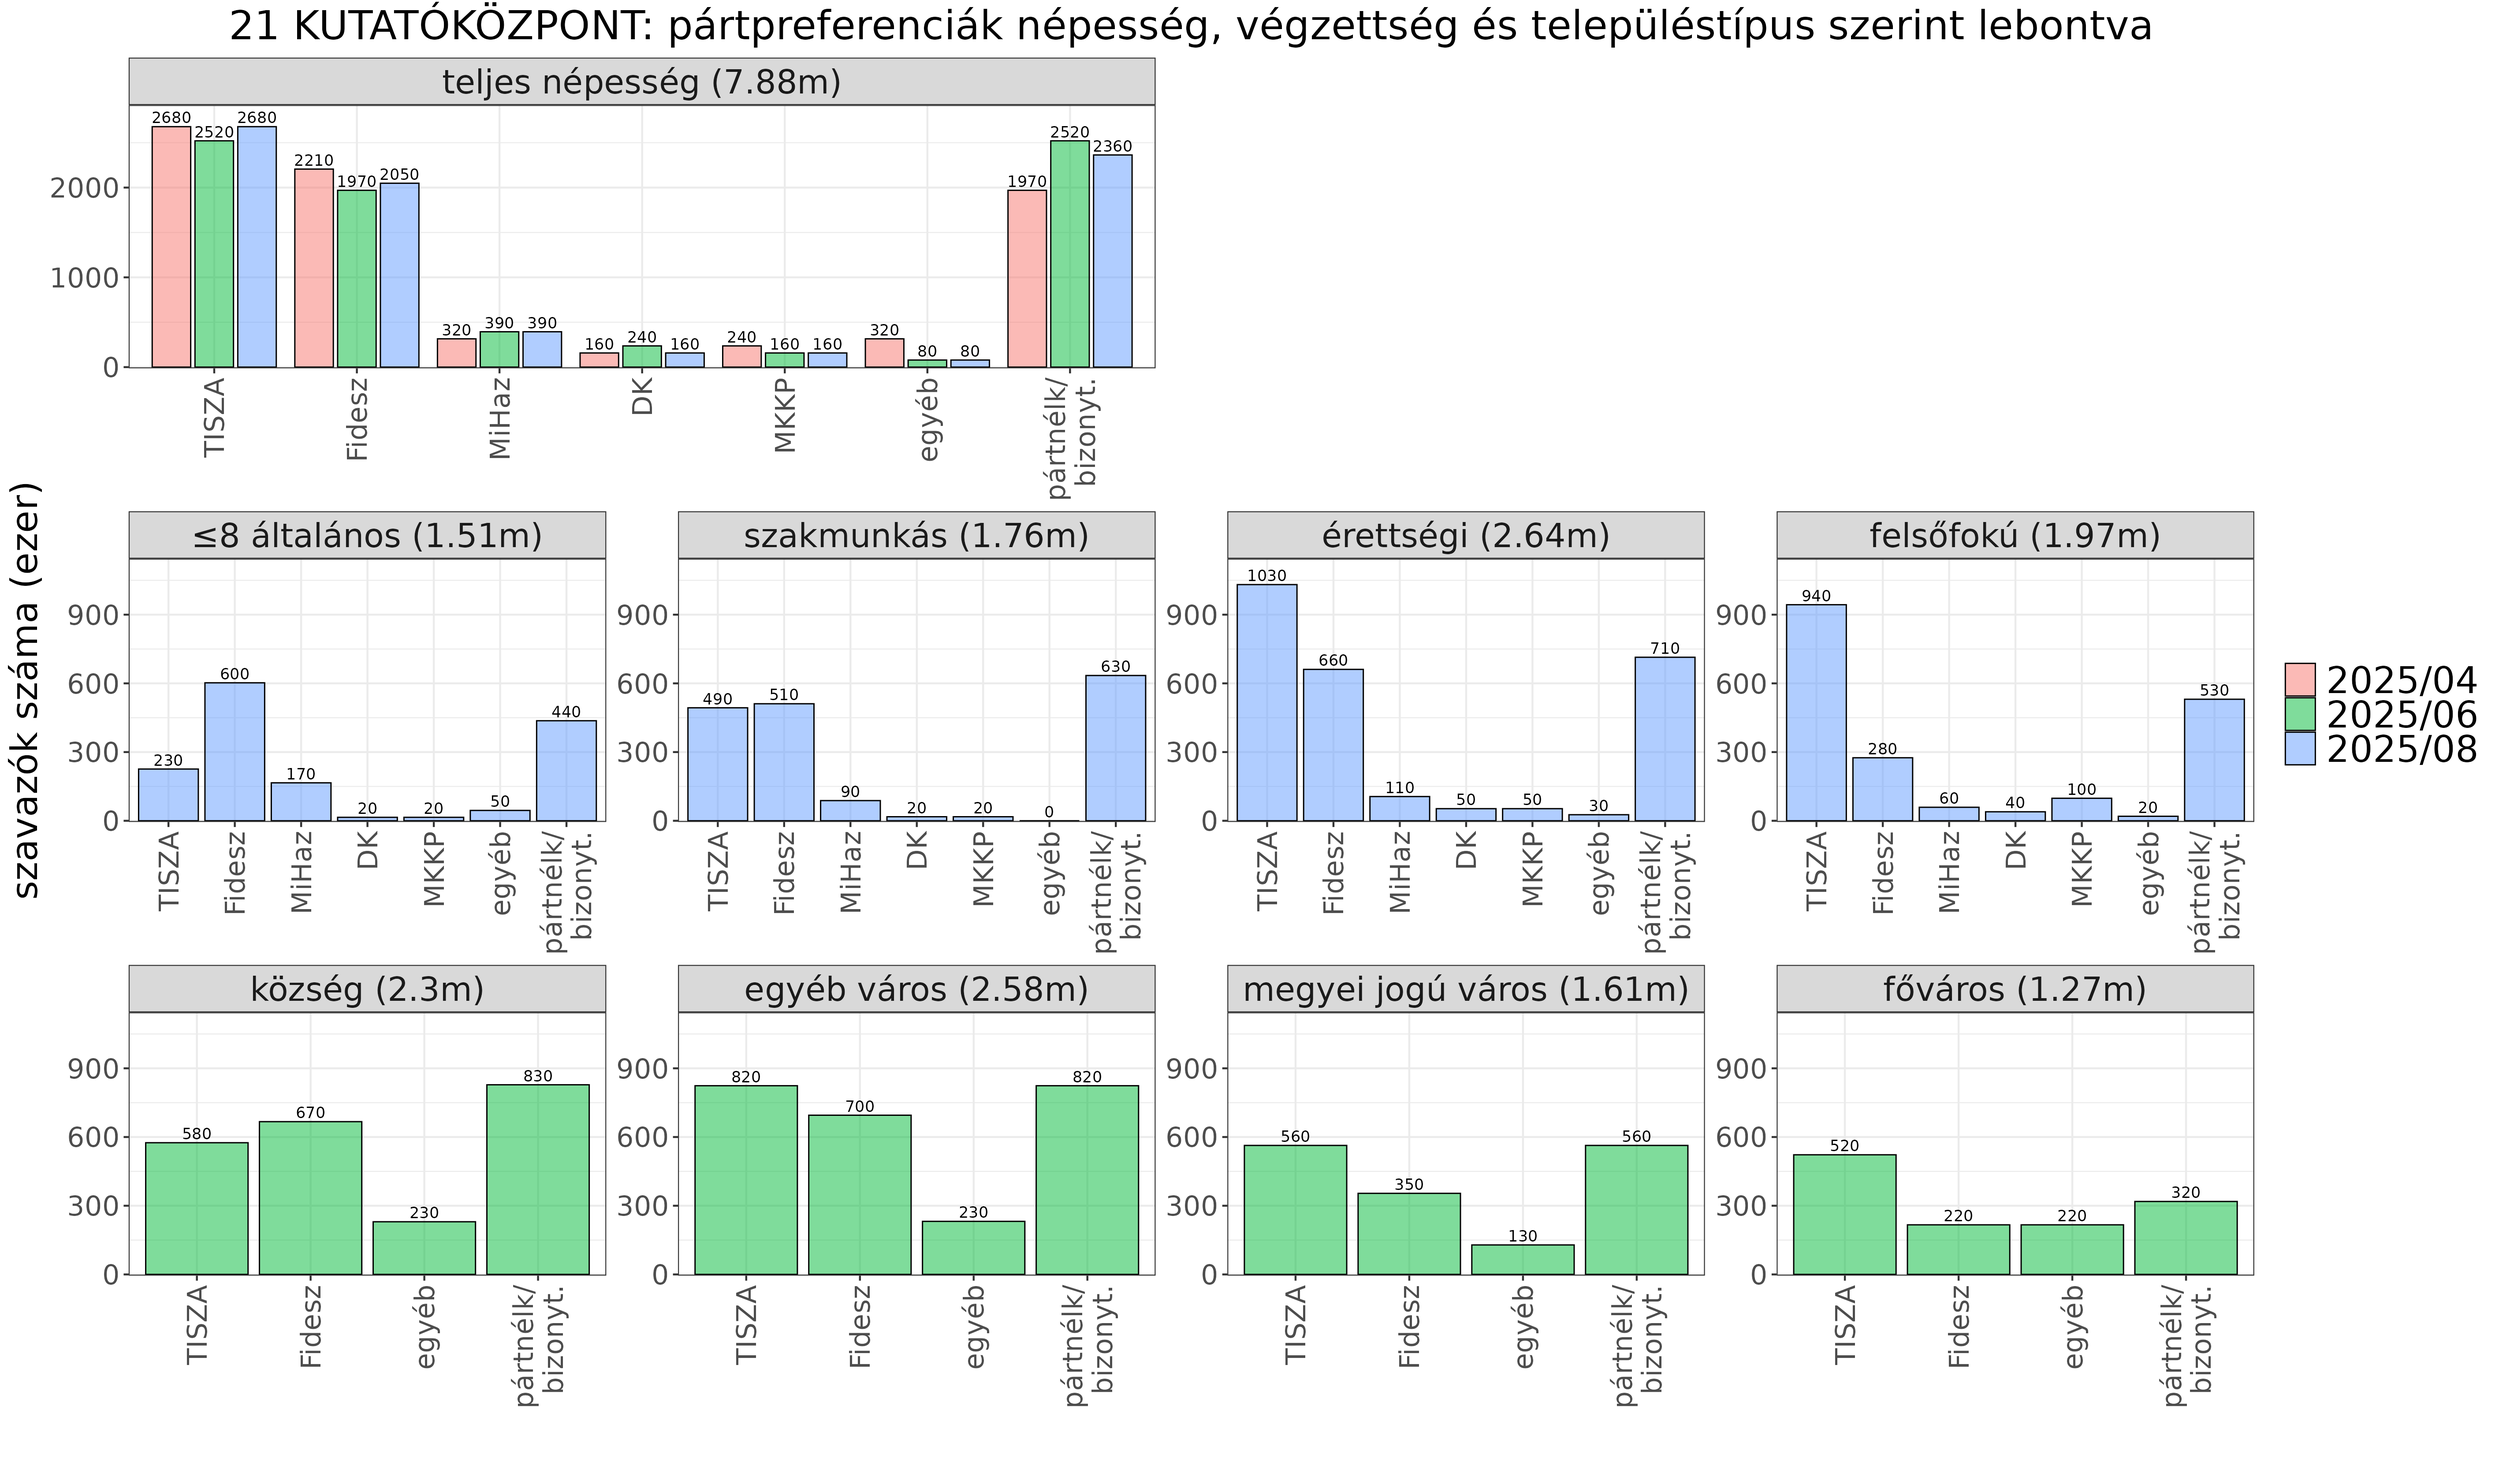
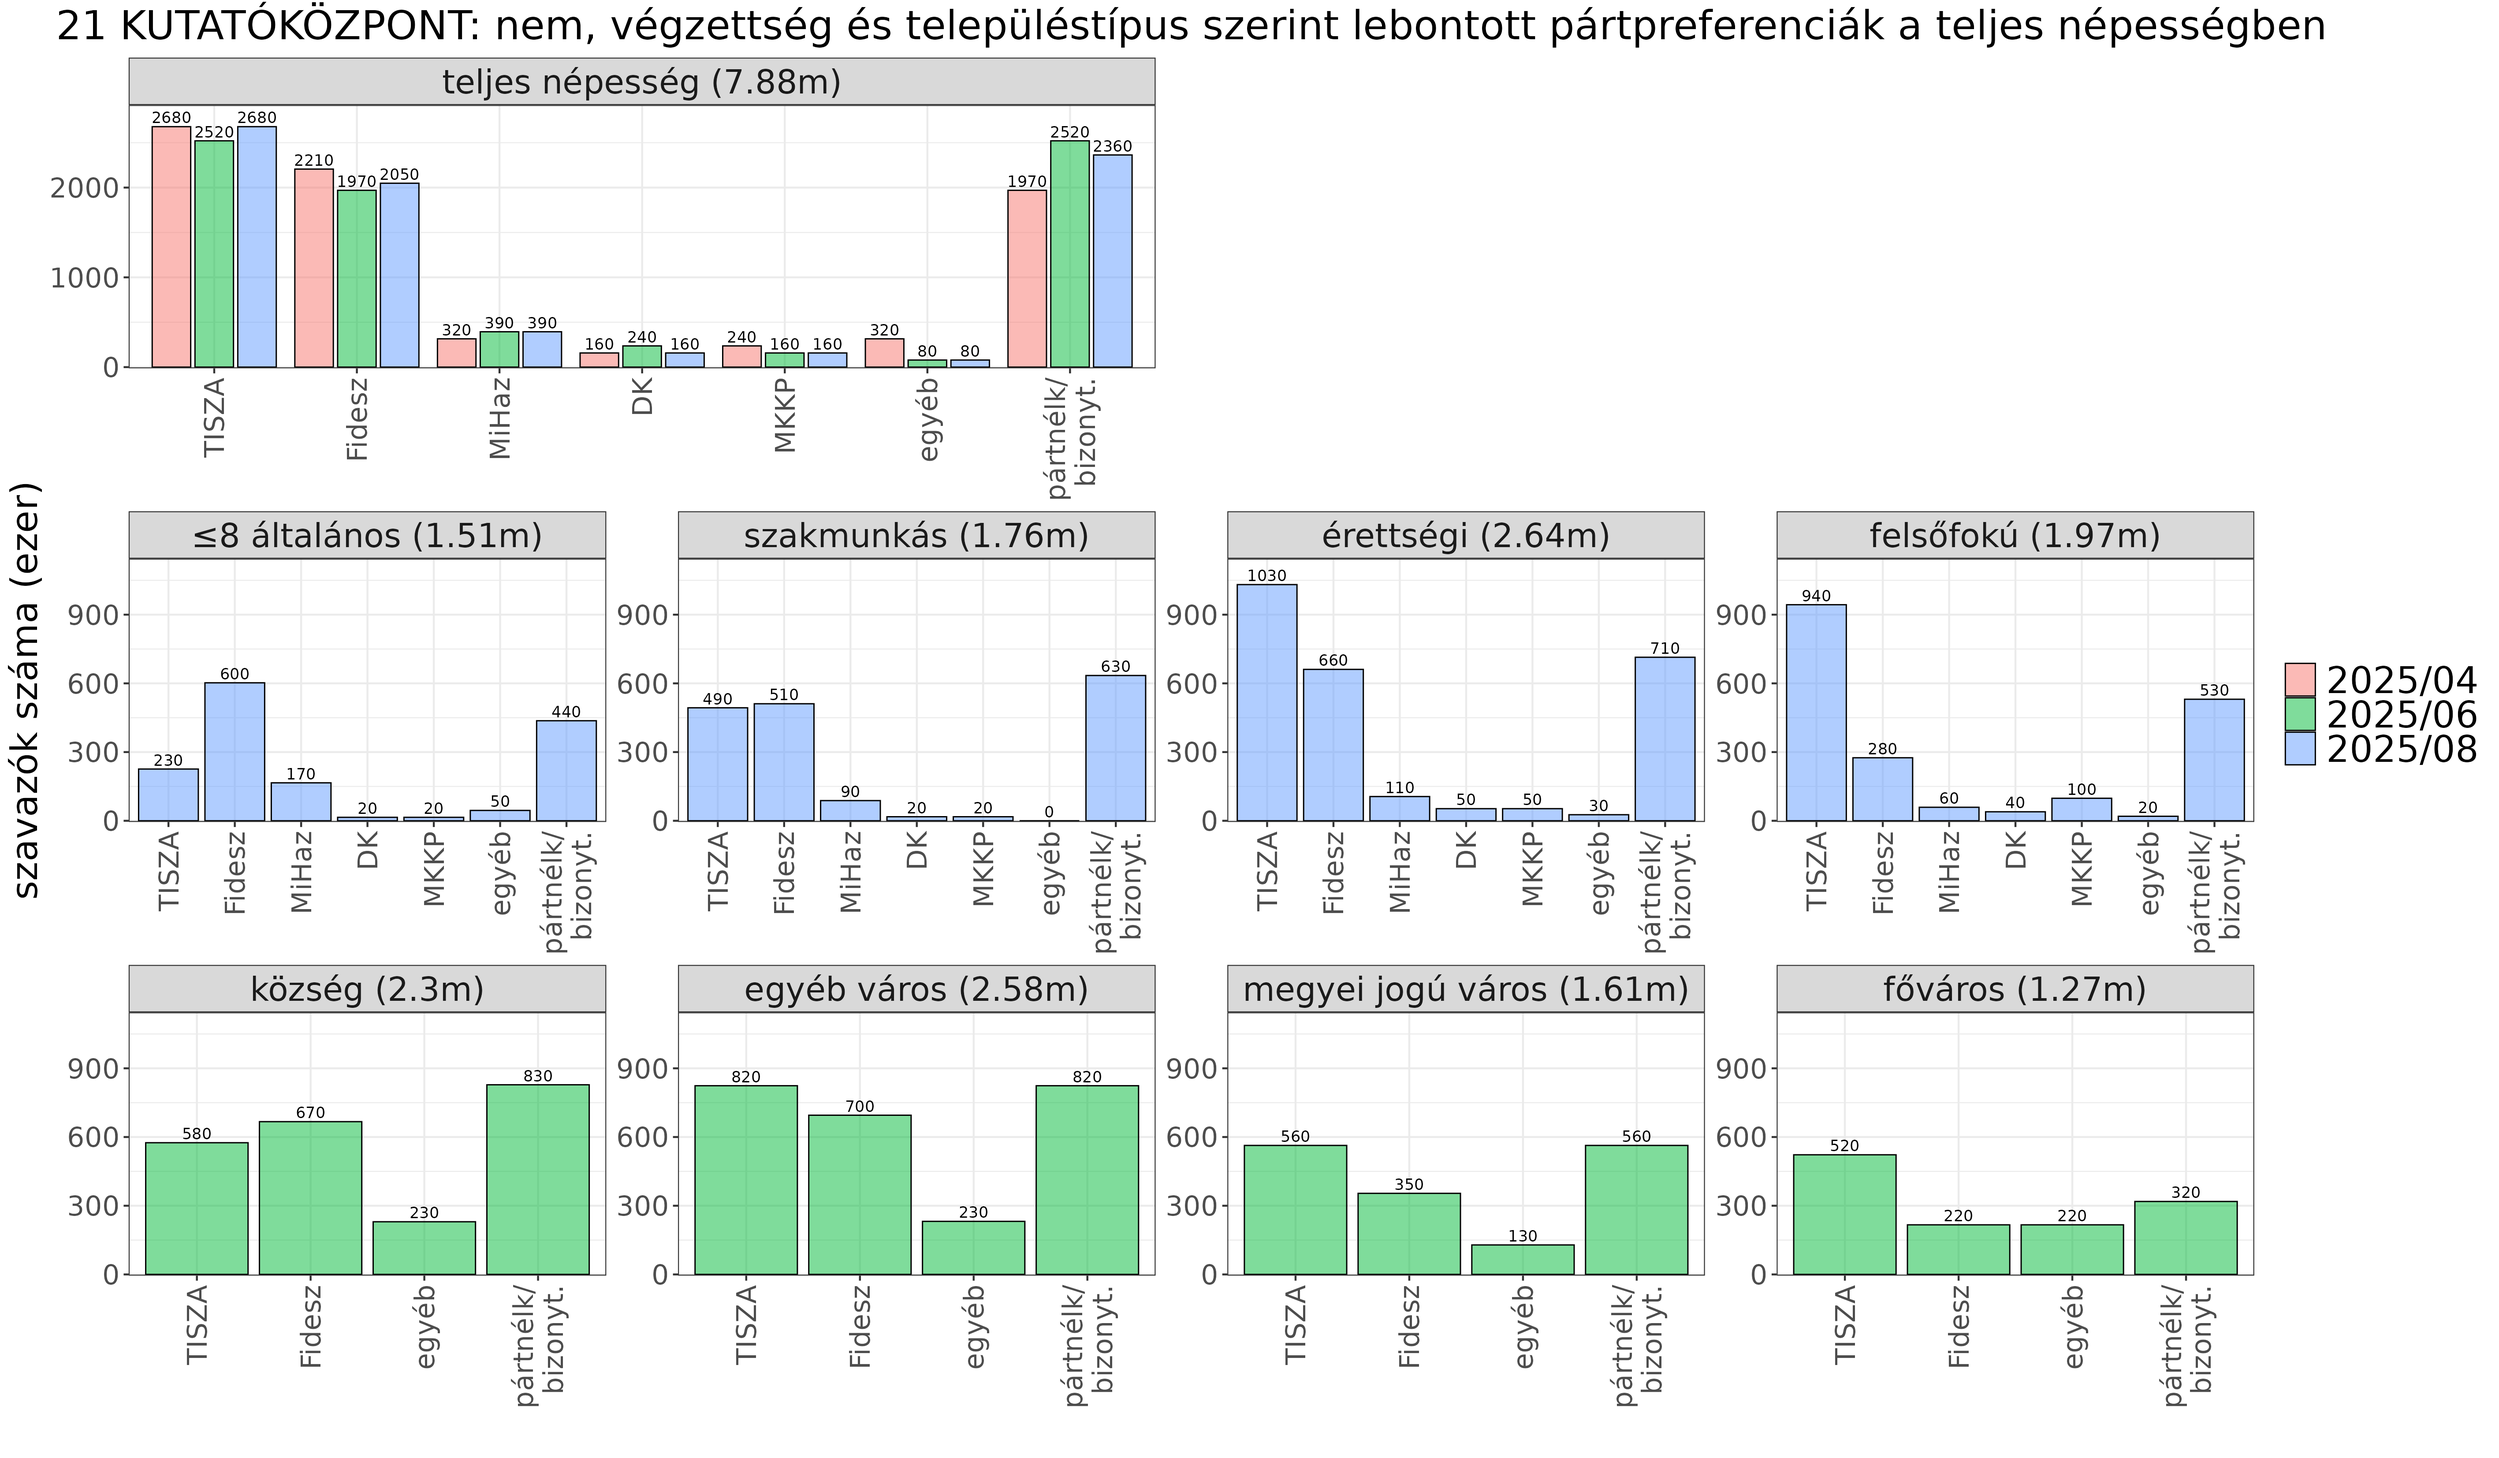
remake plots

Changed region(s): [[0.0312, 0.0, 0.9367, 0.0311]]

diff --git a/_posts/blogposts/2025-09-21-magyar-kozvkut-ksh-demografia.md b/_posts/blogposts/2025-09-21-magyar-kozvkut-ksh-demografia.md
@@ -1,27 +1,72 @@
 ---
 layout: post
-title: 2025. évi közvéleménykutatások abszolút számokra lefordítva
-tags: hungary politics elections demographics
+title: 2025. évi pártpreferencia felmérések abszolút számokban
+tags: hungary politics elections demographics data-visualisation magyar
 excerpt: Kutatások rávetítése a lakosság nem, kor, végzettség és településtípus szerinti megoszlására
 secondary: blogposts
 mathjax: true
 ---
 
-Trallalala
+Az ábrák a 21Kutatóközpont és a Medián 2025 nyári méréseit integrálják a KSH demográfiai adataival. 
+Minden demográfiai adat a választásra jogosult, tehát 18 éves vagy idősebb, népességre vonatkozik, ami a KSH 2025 évi becslése szerint kb. 7.88 millió ember. A függőleges tengelyen a választók száma ezerben van megadva. <br>
 
+<b>Értelmezés</b>: Még ha a felmérések nagyon pontosak is (lennének), a hibahatár így, alkategóriákra lebontva, szinte biztosan nagyobb, mint a teljes mintára nézve. <br>
+Tehát az oszlopok fölötti számokat, amelyek tízezerre kerekítve lettek, nem helyes pontos becsléseknek venni. Ehelyett csak azt mutatják meg, hogy hány (százalék) szavazó lenne az adott kategóriában, <b>ha</b> a mérés tökéletesen pontos lenne - ami szinte biztosan nem igaz. <br>
+Ugyanakkor azt megmutatják, hogy az egyes demográfiai csoportokban (pl. szakmunkás végzettségűek, 65 év felettiek stb.) összesen mennyien vannak, illetve <i>ha</i> a mérések hozzávetőlegesen pontosak, akkor azt is, hogy körülbelül hogyan oszlik el a népesség pártszimpátia szerint az adott demográfiai kategóriában. 
+<br>
+
+<b>Adatokkal kapcsolatos megjegyzések</b>: 
+A demográfiai adatokat a KSH összefoglaló tábláiból, illetve a [2022-es országgyűlési választás honlapjáról](https://www.valasztas.hu/ogy2022-letoltheto-es-tovabbfeldolgozhato-adatok) vettem. Az adatfile-ok letölthetők a <a href='https://github.com/mbkoltai/mbkoltai.github.io/blob/source/images/magyar_val_demogr/script.R' 
+target='_blank'> projekt Github folder-jéből</a>. 
+A statikus grafikonokat generáló [R kódban](https://github.com/mbkoltai/mbkoltai.github.io/blob/source/images/magyar_val_demogr2025/script.R) a linkeket is megadtam, ahonnan az eredeti táblázatok letölthetők. 
+A 74 éven felüliek végzettség szerinti eloszlására nem találtam adatot a KSH-nál, csak a 15-74 közötti népességre. 
+Ezért itt (≥74) azt feltételeztem, hogy a végzettség szerinti megoszlás megfelel a legkorábbi adatpont (2009) <i>teljes</i> lakosságra vonatkozó adataival.
+Emellett, a KSH 2025-ös felnőtt népesség méret-adata kb. 120 ezerrel nagyobb, mint ami a 2022-es települési választási adatokból kivonható. 
+Ennek nem tudom, hogy mi az oka, talán a nem bejelentett külföldön élők.  
+Ez a két demográfiai pontatlanság nem változtat sokat (valószínűleg kb. néhány tízezret) a végzettség és településtípus szerinti demográfiai csoportok méretén. <br>
+
+A MEDIÁN 2002 óta készült választás előtti - az eredményekkel összehasonlított - előrejelzéseit <a href='https://docs.google.com/spreadsheets/d/1NUEgN7eV7MoZqi8dd9-xAzWxY_u2u_HYImV6l_U5qDE/' target='_blank'>itt gyűjtöttem össze</a>. <br>
+
+A 21Kutközpont 2024-es <a href='https://mbkoltai.com/ep2024-hungary-datavis/' target='_blank'>EP-választások</a> előtti (gyakorlatilag tökéletesre sikerült) <a href='https://24.hu/belfold/2024/06/09/ep-valasztas-2024-exit-poll-mandatumbecsles/' target='_blank'> előrejelzése itt</a>. <br>
+A többi közvéleménykutató demográfiai lebontást általában nem publikál, illetve a <i> record</i>-juk annyira ellentmodásos, hogy inkább nem használtam őket.
+
+
+<a href="https://mbkoltai.shinyapps.io/magyar_val_demogr_2025/" class="button">ShinyApp interaktív grafikonokkal</a>
+
+<style>
+.button {
+    display: inline-block;
+    padding: 10px 20px;
+    font-size: 22px;
+    color: white;
+    background-color: #0056b3; /* Button background color */
+    border: 2px solid transparent; /* Transparent border by default */
+    border-radius: 5px;
+    text-align: center;
+    text-decoration: none;
+    transition: border-color 0.3s; /* Smooth transition for border color */
+}
+.button:hover {
+    background-color: #0056b3; /* Darker shade on hover */
+    border-color: red; /* Change border color to red on hover */
+}
+</style>
+
+
+## Statikus grafikonok, ahol az oszlopok fölötti számok a szavazók számát mutatják ezerben megadva:
 
 <div style="text-align: center;">
 <figure style="display:inline-block;border:1px solid #888; padding:8px; border-radius:1px; text-align:center; background-color:#ddd;">
 <a href="{{site.baseurl}}/images/magyar_val_demogr2025/plots/Median_2025_06_08_telj_vegz_teleptipus.png">
 <img src="{{site.baseurl}}/images/magyar_val_demogr2025/plots/Median_2025_06_08_telj_vegz_teleptipus.png" alt="_config.yml" />
 </a>
-<figcaption style="font-size: 20px; margin-top: 6px; width: 700px;"> <strong>MEDIÁN</strong> felmérés </figcaption>
+<figcaption style="font-size: 20px; margin-top: 6px; width: 700px;"> <strong>MEDIÁN felmérés</strong> </figcaption>
 </figure>
 </div>
 
-some rows here
-
-herer
+<br>
+<br>
+<br>
 
 
 <div style="text-align: center;">
@@ -29,7 +74,7 @@ herer
 <a href="{{site.baseurl}}/images/magyar_val_demogr2025/plots/21kut_2025_04_06_08_telj_vegz_teleptipus.png">
 <img src="{{site.baseurl}}/images/magyar_val_demogr2025/plots/21kut_2025_04_06_08_telj_vegz_teleptipus.png" alt="_config.yml" />
 </a>
-<figcaption style="font-size: 20px; margin-top: 6px; width: 700px;"> <strong>Figure 3</strong> Convergence to stable population size and age distribution from different initial conditions with <strong>constant</strong> birth level.</figcaption>
+<figcaption style="font-size: 20px; margin-top: 6px; width: 700px;">  <strong>21 kutatóközpont felmérés</strong> </figcaption>
 </figure>
 </div>
 
@@ -43,7 +88,7 @@ BOX FOR EQUATION
 -->
 
 
-## Kód és adatforrások
+### Kód és adatforrások
 
-[GitHub](https://github.com/mbkoltai/mbkoltai.github.io/tree/source/images/magyar_val_demogr2025)
+[GitHub folder](https://github.com/mbkoltai/mbkoltai.github.io/tree/source/images/magyar_val_demogr2025)
 
